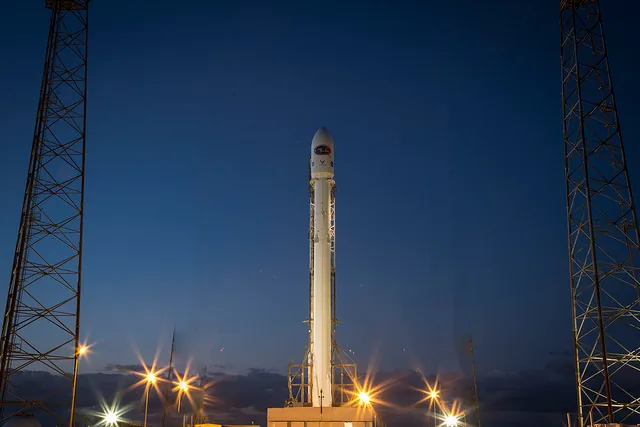
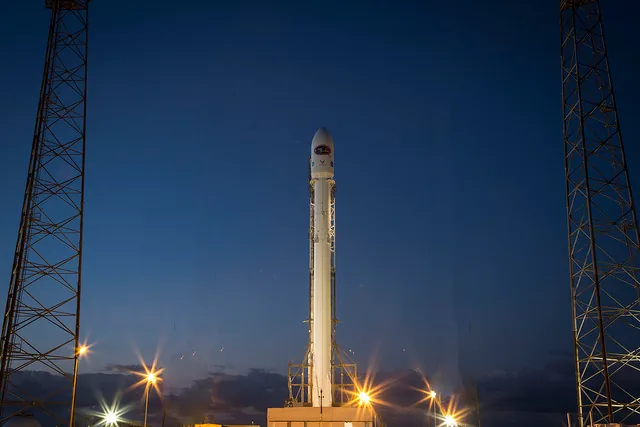
Object eraser: clears leftover slivers of the object just outside the brush
Before filling, the painted area spreads over anything touching it that stands out from the
background and has the object's own colours (a missed edge, strut or outline). It stays put
when that would take in much more, so neighbouring things are left alone.

Claude-Session: https://claude.ai/code/session_01PfVsuSwxRbaAViKHZAfAaN

Changed region(s): [[0.25, 0.7916, 0.3438, 1.0], [0.6562, 0.8829, 0.75, 1.0], [0.7188, 0.7916, 0.75, 0.822]]

diff --git a/src/renderer/inpaint-worker.js b/src/renderer/inpaint-worker.js
@@ -10,9 +10,9 @@
 // In a worker it answers messages; loaded as a normal script it offers TintoInpaint() instead
 // (used if a worker can't be started).
 if (typeof WorkerGlobalScope !== 'undefined' && self instanceof WorkerGlobalScope) self.onmessage = e => {
-  const { id, w, h, rgba, hole } = e.data;
+  const { id, w, h, rgba, hole, reach } = e.data;
   try {
-    const out = complete(rgba, w, h, hole);
+    const out = complete(rgba, w, h, hole, reach);
     self.postMessage({ id, rgba: out }, [out.buffer]);
   } catch (err) {
     self.postMessage({ id, error: String(err && err.message || err) });
@@ -20,7 +20,8 @@ if (typeof WorkerGlobalScope !== 'undefined' && self instanceof WorkerGlobalScop
 };
 else self.TintoInpaint = complete;
 
-function complete(rgba, W, H, hole0) {
+function complete(rgba, W, H, hole0, reach) {
+  if (reach > 0) hole0 = growHole(rgba, W, H, hole0, reach);
   // the pyramid: each level half the size of the one before, down to a hole a few pixels across
   const levels = [{ w: W, h: H, img: toFloat(rgba, W * H), hole: hole0 }];
   while (true) {
@@ -50,8 +51,90 @@ function complete(rgba, W, H, hole0) {
   const top = levels[0];
   if (top.targets && top.sources.length) matchSeam(top);
   const out = new Uint8ClampedArray(rgba);
-  for (let i = 0, n = W * H; i < n; i++) if (hole0[i]) { out[i * 4] = top.img[i * 3]; out[i * 4 + 1] = top.img[i * 3 + 1]; out[i * 4 + 2] = top.img[i * 3 + 2]; out[i * 4 + 3] = 255; }
+  // filled pixels are marked with alpha 250, so the editor knows exactly which area was replaced
+  for (let i = 0, n = W * H; i < n; i++) if (hole0[i]) { out[i * 4] = top.img[i * 3]; out[i * 4 + 1] = top.img[i * 3 + 1]; out[i * 4 + 2] = top.img[i * 3 + 2]; out[i * 4 + 3] = 250; } else out[i * 4 + 3] = 255;
   return out;
+}
+
+/* People rarely paint over all of a thing: a sliver of it, its outline or its shadow is left just outside
+   the brush, and stays behind as a ghost. So before filling, the painted area spreads over anything
+   touching it (within `reach` pixels) that stands out from what the background there should look like. */
+function growHole(rgba, W, H, hole, reach) {
+  // what the background should look like: the photo at quarter size with the hole smoothed over, blurred
+  const L0 = { w: W, h: H, img: toFloat(rgba, W * H), hole };
+  const L1 = down(L0), L2 = down(L1); diffuse(L2);
+  const bw = L2.w, bh = L2.h; let b = L2.img;
+  for (let pass = 0; pass < 2; pass++) {
+    const o = new Float32Array(b.length);
+    for (let y = 0; y < bh; y++) for (let x = 0; x < bw; x++) {
+      let r = 0, g = 0, bl = 0, n = 0;
+      for (let dy = -2; dy <= 2; dy++) for (let dx = -2; dx <= 2; dx++) { const xx = x + dx, yy = y + dy; if (xx < 0 || yy < 0 || xx >= bw || yy >= bh) continue; const j = (yy * bw + xx) * 3; r += b[j]; g += b[j + 1]; bl += b[j + 2]; n++; }
+      const i = (y * bw + x) * 3; o[i] = r / n; o[i + 1] = g / n; o[i + 2] = bl / n;
+    }
+    b = o;
+  }
+  const diff = i => {
+    const x = i % W, y = (i / W) | 0, fx = Math.min(bw - 1.001, Math.max(0, x / 4 - 0.375)), fy = Math.min(bh - 1.001, Math.max(0, y / 4 - 0.375));
+    const x0 = fx | 0, y0 = fy | 0, tx = fx - x0, ty = fy - y0, a = (y0 * bw + x0) * 3, c = a + bw * 3;
+    let d = 0;
+    for (let ch = 0; ch < 3; ch++) {
+      const v = (b[a + ch] * (1 - tx) + b[a + 3 + ch] * tx) * (1 - ty) + (b[c + ch] * (1 - tx) + b[c + 3 + ch] * tx) * ty;
+      d = Math.max(d, Math.abs(rgba[i * 4 + ch] - v));
+    }
+    return d;
+  };
+  // how far each nearby pixel is from the painted area
+  const far = reach * 2, dist = new Int16Array(W * H).fill(-1);
+  let ring = [];
+  for (let i = 0; i < W * H; i++) if (hole[i]) dist[i] = 0;
+  for (let y = 0; y < H; y++) for (let x = 0; x < W; x++) { const i = y * W + x; if (hole[i] && ((x > 0 && !hole[i - 1]) || (x < W - 1 && !hole[i + 1]) || (y > 0 && !hole[i - W]) || (y < H - 1 && !hole[i + W]))) ring.push(i); }
+  const edge = ring.slice(), outer = [];
+  for (let d = 1; d <= far && ring.length; d++) {
+    const next = [];
+    for (const i of ring) { const x = i % W, y = (i / W) | 0; for (const j of [x > 0 ? i - 1 : -1, x < W - 1 ? i + 1 : -1, y > 0 ? i - W : -1, y < H - 1 ? i + W : -1]) if (j >= 0 && dist[j] < 0) { dist[j] = d; next.push(j); if (d > reach) outer.push(j); } }
+    ring = next;
+  }
+  // how much ordinary background differs from its own blur (grain, wood, grass): standing out means well above that
+  const sample = []; for (let k = 0; k < outer.length; k += Math.max(1, (outer.length / 3000) | 0)) sample.push(diff(outer[k]));
+  sample.sort((a, c) => a - c);
+  const typical = sample.length ? sample[(sample.length * 0.75) | 0] : 8;
+  let holeArea = 0; for (let i = 0; i < W * H; i++) if (hole[i]) holeArea++;
+  // the colours of the thing itself: whatever stands out inside the painted area. Only more of the same
+  // may be added, so a street light or a face next to the brush is left alone.
+  const bins = new Uint16Array(4096), bin = i => ((rgba[i * 4] >> 4) << 8) | ((rgba[i * 4 + 1] >> 4) << 4) | (rgba[i * 4 + 2] >> 4);
+  const base = Math.max(20, typical * 2.6);
+  for (let i = 0; i < W * H; i++) if (hole[i] && diff(i) > base) bins[bin(i)]++;
+  const need = Math.max(3, holeArea * 0.0015);
+  const likeObject = i => {
+    const r = rgba[i * 4] >> 4, g = rgba[i * 4 + 1] >> 4, bl = rgba[i * 4 + 2] >> 4; let n = 0;
+    for (let dr = -1; dr <= 1; dr++) for (let dg = -1; dg <= 1; dg++) for (let db = -1; db <= 1; db++) {
+      const R = r + dr, G = g + dg, B = bl + db; if (R < 0 || G < 0 || B < 0 || R > 15 || G > 15 || B > 15) continue;
+      n += bins[(R << 8) | (G << 4) | B];
+    }
+    return n >= need;
+  };
+  for (let thr = base, attempt = 0; attempt < 1; attempt++) {
+    const grown = hole.slice(); let added = 0; const q = edge.slice();
+    while (q.length) {
+      const i = q.pop(), x = i % W, y = (i / W) | 0;
+      for (const j of [x > 0 ? i - 1 : -1, x < W - 1 ? i + 1 : -1, y > 0 ? i - W : -1, y < H - 1 ? i + W : -1]) {
+        if (j < 0 || grown[j] || dist[j] < 0 || dist[j] > reach) continue;
+        if (diff(j) > thr && likeObject(j)) { grown[j] = 1; added++; q.push(j); }
+      }
+    }
+    // a leftover sliver is small. If it spread a long way, the background is busy or another object is
+    // touching: leave it, and fill just what was painted
+    if (added > holeArea * 0.1) break;
+    if (!added) return hole;
+    // two pixels more round what was added, for its soft edges
+    const out = grown.slice();
+    for (let y = 0; y < H; y++) for (let x = 0; x < W; x++) {
+      const i = y * W + x; if (!grown[i] || hole[i]) continue;
+      for (let dy = -2; dy <= 2; dy++) for (let dx = -2; dx <= 2; dx++) { const xx = x + dx, yy = y + dy; if (xx >= 0 && yy >= 0 && xx < W && yy < H) out[yy * W + xx] = 1; }
+    }
+    return out;
+  }
+  return hole;
 }
 
 /* each hole pixel takes its colour from the overlapping patch that matched best */

diff --git a/src/renderer/app.js b/src/renderer/app.js
@@ -905,8 +905,8 @@ function eraseDab(st, p, r){
   }
   st.wx.putImageData(out, x0, y0);
 }
-function inpaint(rgba, w, h, hole){
-  const here = () => window.TintoInpaint(rgba, w, h, hole);
+function inpaint(rgba, w, h, hole, reach){
+  const here = () => window.TintoInpaint(rgba, w, h, hole, reach);
   if (ER.worker === false) return Promise.resolve().then(here);
   try {
     if (!ER.worker){
@@ -917,9 +917,9 @@ function inpaint(rgba, w, h, hole){
   const id = ++ER.seq, keep = {rgba: rgba.slice(), hole: hole.slice()};
   return new Promise((res, rej) => {
     // if the worker can't run here, do the work on the page instead
-    ER.worker.onerror = ev => { ev.preventDefault(); ER.worker = false; ER.waiting.delete(id); try { res(window.TintoInpaint(keep.rgba, w, h, keep.hole)); } catch (e) { rej(e); } };
+    ER.worker.onerror = ev => { ev.preventDefault(); ER.worker = false; ER.waiting.delete(id); try { res(window.TintoInpaint(keep.rgba, w, h, keep.hole, reach)); } catch (e) { rej(e); } };
     ER.waiting.set(id, d => d.error ? rej(new Error(d.error)) : res(d.rgba));
-    ER.worker.postMessage({id, w, h, rgba, hole}, [rgba.buffer, hole.buffer]);
+    ER.worker.postMessage({id, w, h, rgba, hole, reach}, [rgba.buffer, hole.buffer]);
   });
 }
 async function eraseObject(st){
@@ -945,7 +945,10 @@ async function eraseObject(st){
   ER.busy = true; stage.classList.add('erasing'); bgStatusMini('Erasing…');
   await new Promise(r => requestAnimationFrame(() => setTimeout(r, 0)));
   try {
-    const filled = await inpaint(cx.getImageData(0, 0, ww, wh).data, ww, wh, hole.slice());
+    // the eraser may spread a little past the brush, over bits of the object that were missed
+    const reach = clamp(Math.round(st.r * k * 0.6), 5, 40);
+    const filled = await inpaint(cx.getImageData(0, 0, ww, wh).data, ww, wh, hole.slice(), reach);
+    for (let i=0; i<ww*wh; i++){ if (filled[i*4+3] !== 255){ hole[i] = 1; filled[i*4+3] = 255; } }
     const fc = mk(ww, wh); fc.getContext('2d').putImageData(new ImageData(filled, ww, wh), 0, 0);
     // back to full size, blended in along a soft edge
     const patch = mk(rw, rh), px = patch.getContext('2d'); px.imageSmoothingQuality = 'high'; px.drawImage(fc, 0, 0, rw, rh);
